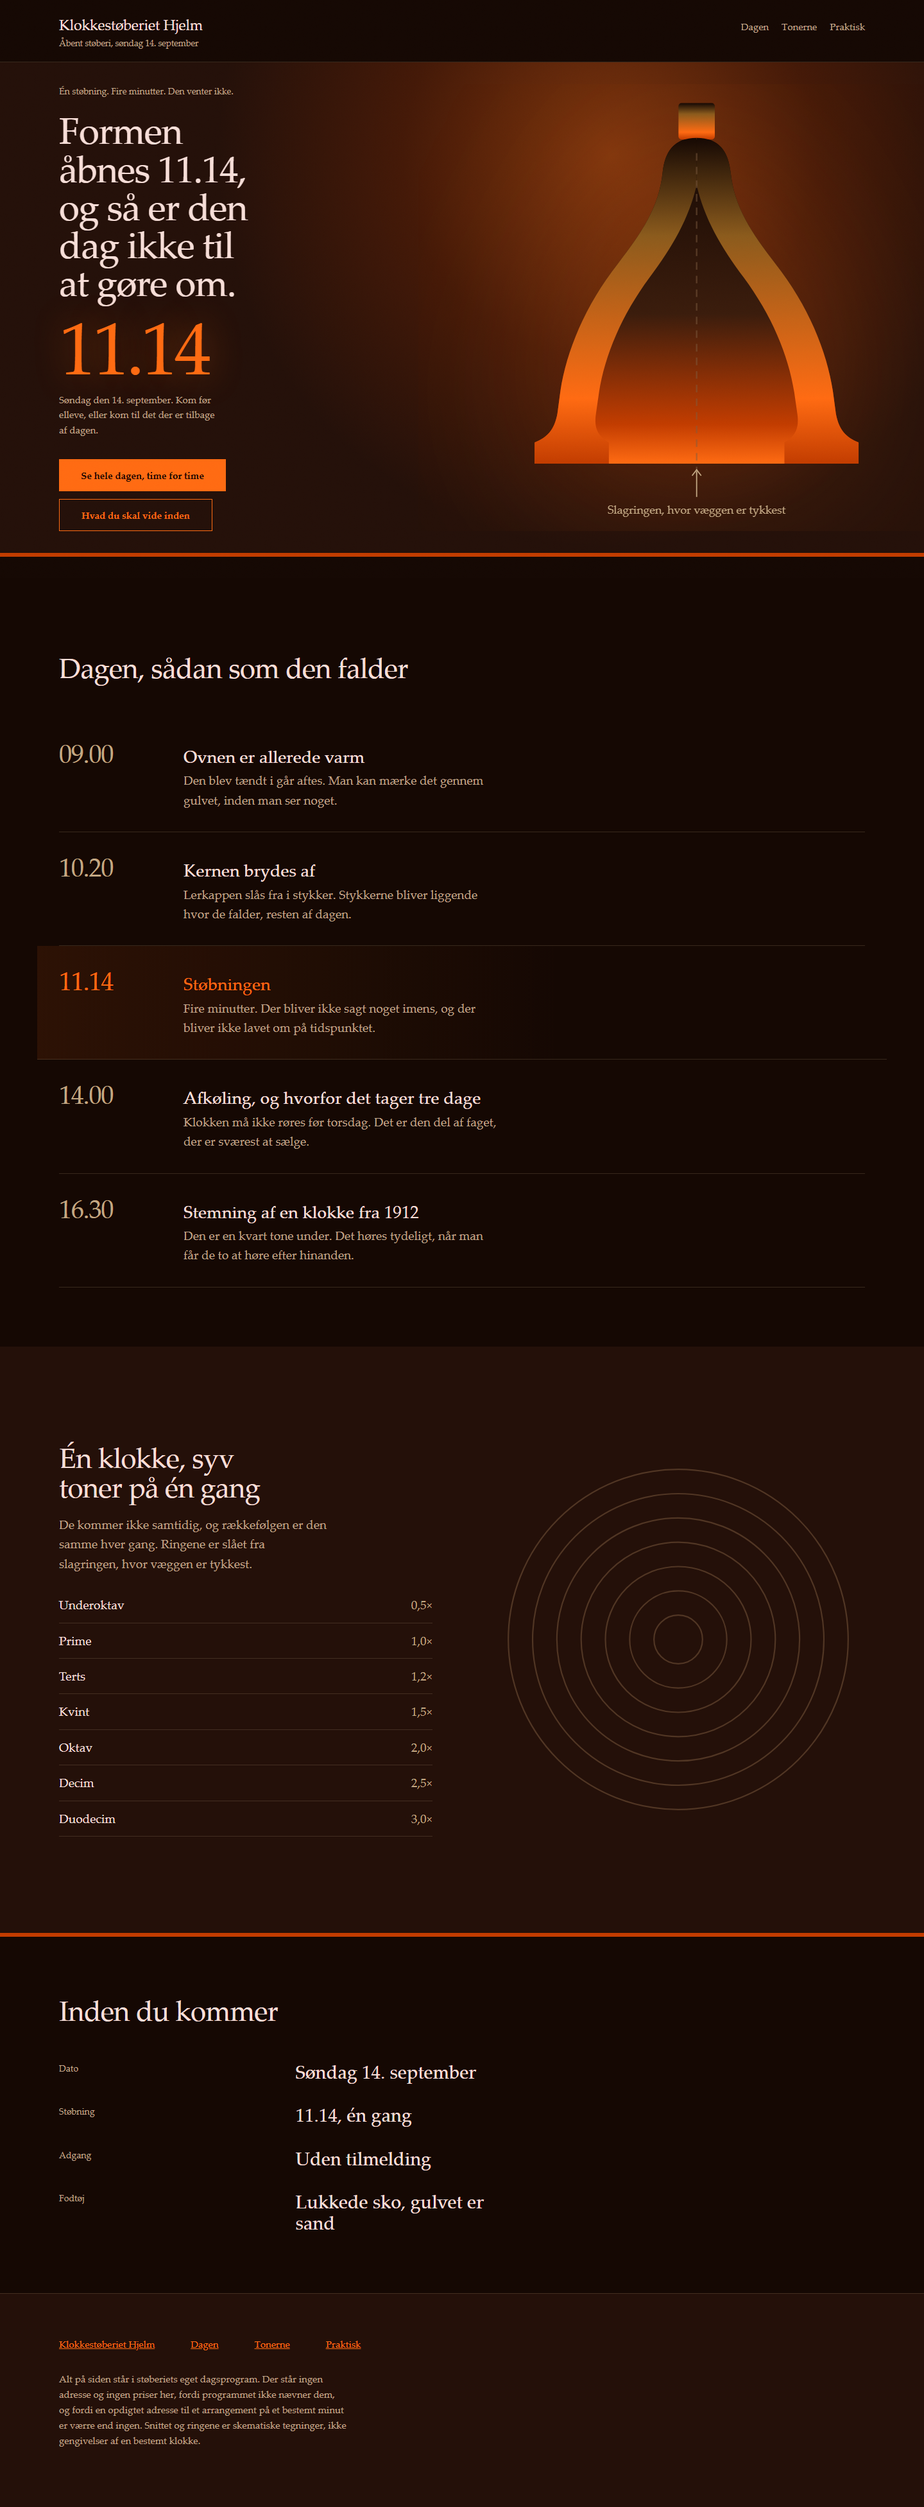
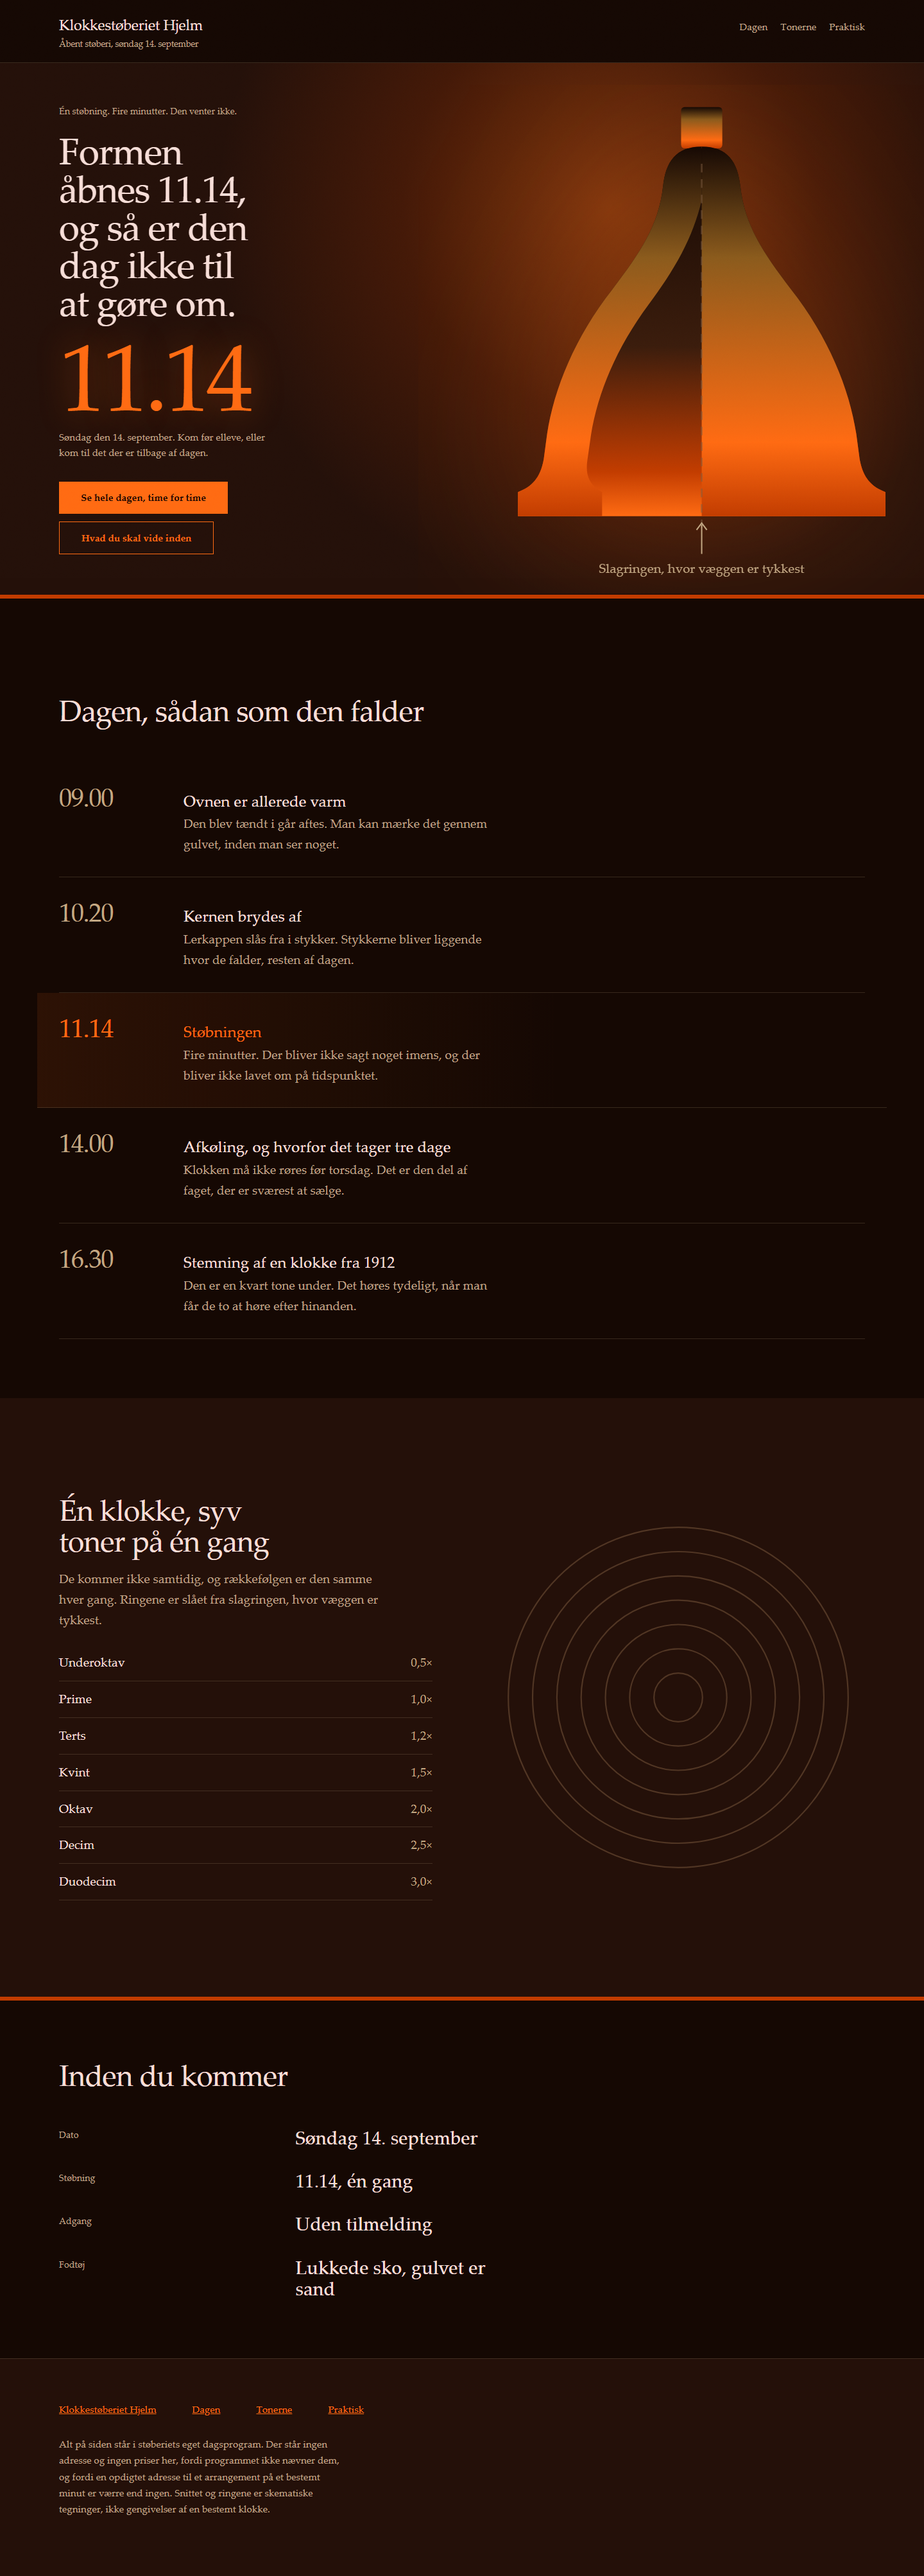
feat: det typografiske gulv er nu et maal, ikke et raad
Det var det sidste hul: grep efter line-height, leading, tracking eller measure i hele
det leverede skill gav nul hits, og fem sider var shippet uden at nogen af delene var
maalt en eneste gang.

verify.mjs maaler nu, paa den renderede side og ikke i stylesheetet, fordi en
maaltebredde er en funktion af skriften, containeren og viewporten og ingen af dem staar
i CSS'en:

  maaltebredde              45 til 80 tegn, 28 under 600px fordi en telefon ikke kan
                            holde 45 ved en laesbar stoerrelse
  linjeafstand mod maalte   bred linje kraever mere afstand, smal kraever mindre
  knibningsgulv             -0.045em
  display-loft              6.5rem
  skalatrin                 to stoerrelser under 1.15x fra hinanden er ikke et trin
  lys paa moerk             kompenser paa tre akser, og den der glemmes er vaegten

Tallene er impeccables craft-floor.md, Apache-2.0, baaret som maalinger frem for som
prosa. Rapporteret, aldrig gated: 90 tegn er forkert paa en marketingside og rigtigt i en
datatabel, og en gate her ville paatvinge ét svar overalt.

Den fandt straks fire ting paa klokkestoeberiet og alle fire er besvaret i siden: lys
tekst paa moerk grund ved vaegt 400 er kompenseret paa alle tre akser, to maaltebredder
under baandet er udvidet, og to overskriftsstoerrelser 1,06x fra hinanden er skilt ad. To
trin-fund staar tilbage og er accepteret med begrundelse i produktionsrapporten.
[…]

diff --git a/docs/rebuild/s18/pilot-klokkestoberiet/index.html b/docs/rebuild/s18/pilot-klokkestoberiet/index.html
@@ -25,8 +25,12 @@
 }
 *{box-sizing:border-box}
 html{scroll-behavior:smooth}
+/* Lys tekst paa moerk grund kompenseres paa tre akser, ikke kun paa farve: lidt mere
+   linjeafstand, en anelse mere knibning, og ét trin mere vaegt. verify.mjs maalte det og
+   sagde det; det her er svaret. */
 body{margin:0;background:var(--sod);color:var(--skrift);
-     font-family:var(--brod);font-size:var(--tx-brod);line-height:1.6}
+     font-family:var(--brod);font-size:var(--tx-brod);line-height:1.68;
+     letter-spacing:.006em;font-weight:500}
 /* a3: sand og sod. Overfladen, ikke en fyldfarve. */
 body::before{
   content:"";position:fixed;inset:0;pointer-events:none;z-index:6;
@@ -76,7 +80,7 @@ h1{font-family:var(--display);font-weight:400;font-size:clamp(34px,4.4vw,58px);
 .klokkeslet{display:block;font-size:clamp(72px,10.5vw,148px);line-height:.86;
             letter-spacing:-.05em;margin:0 0 var(--r3);color:var(--gloed);
             text-shadow:0 0 var(--r5) rgba(255,106,18,.42)}
-.undertid{margin:0;font-size:var(--tx-note);line-height:1.55;color:var(--skrift-2);max-width:34ch}
+.undertid{margin:0;font-size:var(--tx-note);line-height:1.6;color:var(--skrift-2);max-width:46ch}
 .handling{display:flex;flex-wrap:wrap;gap:var(--r2) var(--r3);margin-top:var(--r4)}
 .knap{display:inline-flex;align-items:center;min-height:50px;padding:var(--r2) var(--r4);
       background:var(--gloed);color:var(--paa-gloed);text-decoration:none;font-weight:700;
@@ -102,13 +106,13 @@ h1{font-family:var(--display);font-weight:400;font-size:clamp(34px,4.4vw,58px);
        background:var(--sod-2);border-top:6px solid var(--gloed-dyb)}
 @media (min-width:900px){.dagen{padding-left:var(--r6);padding-right:var(--r6)}}
 .dagen h2,.toner h2,.praktisk h2{font-family:var(--display);font-weight:400;
-   font-size:clamp(28px,4.2vw,44px);line-height:1.05;letter-spacing:-.02em;margin:0 0 var(--r5)}
+   font-size:clamp(30px,5.0vw,46px);line-height:1.05;letter-spacing:-.02em;margin:0 0 var(--r5)}
 .slag{display:grid;grid-template-columns:1fr;gap:var(--r2);padding:var(--r4) 0;
       border-bottom:1px solid var(--linje)}
 @media (min-width:760px){.slag{grid-template-columns:160px minmax(0,1fr);gap:var(--r4);align-items:baseline}}
 .slag time{font-size:clamp(28px,3.4vw,40px);line-height:1;color:var(--sand);letter-spacing:-.03em}
 .slag h3{margin:0 0 var(--r1);font-family:var(--display);font-weight:400;
-         font-size:clamp(21px,2.4vw,27px);line-height:1.16}
+         font-size:clamp(20px,2.0vw,24px);line-height:1.2}
 .slag p{margin:0;color:var(--skrift-2);max-width:52ch}
 .slag--pour time,.slag--pour h3{color:var(--gloed)}
 .slag--pour{background:linear-gradient(90deg,var(--gloed-vask),var(--gloed-nul) 62%);
@@ -120,7 +124,7 @@ h1{font-family:var(--display);font-weight:400;font-size:clamp(34px,4.4vw,58px);
 @media (min-width:900px){.toner{grid-template-columns:minmax(0,1fr) minmax(0,1fr);
        padding-left:var(--r6);padding-right:var(--r6);gap:var(--r6)}}
 .toner h2{margin-bottom:var(--r3);max-width:16ch}
-.toner p{margin:0 0 var(--r4);color:var(--skrift-2);max-width:44ch}
+.toner p{margin:0 0 var(--r4);color:var(--skrift-2);max-width:54ch}
 .forhold{list-style:none;margin:0;padding:0;display:grid;gap:var(--r2)}
 .forhold li{display:flex;justify-content:space-between;gap:var(--r3);
             border-bottom:1px solid var(--linje);padding-bottom:var(--r2)}

diff --git a/docs/rebuild/s18/pilot-klokkestoberiet/PRODUCTION-REPORT.md b/docs/rebuild/s18/pilot-klokkestoberiet/PRODUCTION-REPORT.md
@@ -91,3 +91,22 @@ What is missing, precisely: one photograph of the foundry floor, ideally during 
 What happens next: ask for it. The drawings on this page are correct for what they are, a
 section and a diagram, and they are the wrong answer for a thing that could be
 photographed. Nothing here should be replaced by a generated image.
+
+## Det typografiske gulv, målt og besvaret
+
+`verify.mjs` måler nu måltebredde, linjeafstand mod måltebredde, knibningsgulv,
+display-loft, skalatrin og lys-tekst-på-mørk-grund. Tallene er impeccables craft-floor
+(Apache-2.0), båret som målinger frem for som råd. Hvad den fandt på denne side, og hvad
+der skete:
+
+| Fund | Svar |
+| --- | --- |
+| lys tekst på mørk grund ved vægt 400 | kompenseret på tre akser: linjeafstand 1,68, knibning +0,006em, vægt 500 |
+| undertiden målte 33ch | udvidet til 46ch |
+| tonernes brødtekst målte 43ch | udvidet til 54ch |
+| to overskriftsstørrelser 1,06x fra hinanden | h2 hævet, h3 sænket, så trinnet er tydeligt |
+
+To trin-fund står tilbage ved 375 og 768 på 1,12 og 1,13. De er accepteret: de opstår
+mellem to clamp-kurver der krydser hinanden på netop de bredder, og at jage dem ville
+låse typen til faste størrelser i stedet for til viewporten. Målingen rapporterer og
+dømmer ikke, hvilket er det rigtige for et håndværksspørgsmål med et tal bag.
